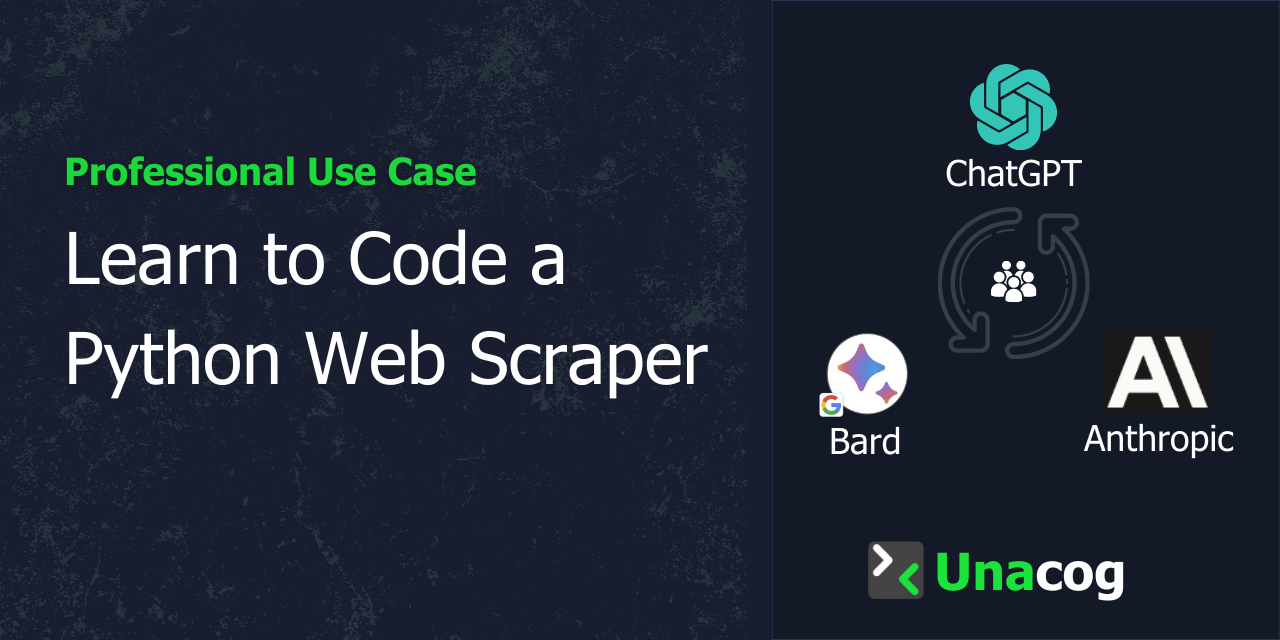
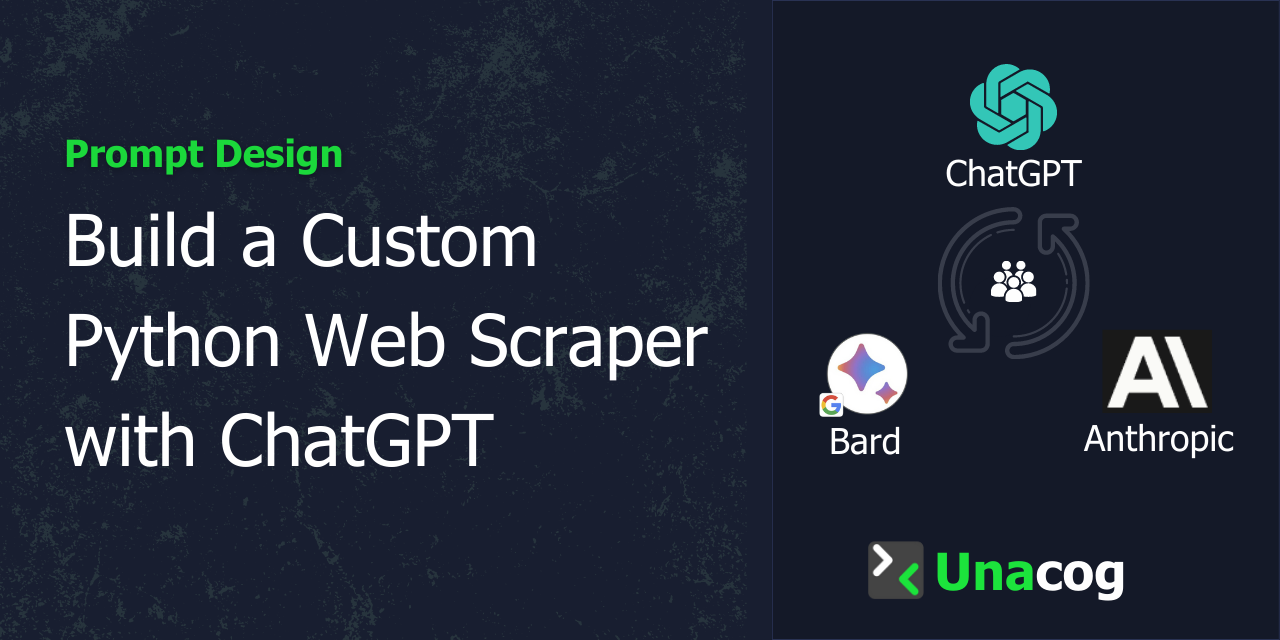
webscrape iteration

Changed region(s): [[0.0312, 0.2188, 0.5625, 0.75]]

diff --git a/public/content/webscrape/index.html b/public/content/webscrape/index.html
@@ -94,14 +94,21 @@
     <div class="container main_container">
         <div class="flex-lg-row flex_change_responsive">
             <div class="side_block">
-                <h1 class="header_recent_document">Using ChatGPT for a How To on Web Scrape</h1>
+                <h1 class="header_recent_document">Using ChatGPT Scrape the Web</h1>
                 <div class="coming-soon card" style="text-align:left;">
                     <p>
                         One of the most exciting aspects of AI technology is its potential to help us learn and
-                        accomplish tasks more efficiently. Today, I'd like to share a real-world application of how an
-                        AI language model, specifically ChatGPT, helped me accomplish a task that would traditionally
-                        require a fair amount of technical knowledge and effort: web scraping.
+                        accomplish tasks more efficiently. In this example, I wanted to share how I was
+                        able to generate a python script that will scrape into a csv file for any website you want with
+                        minor modifications. No coding skills required and template is at the bottom.
                     </p>
+                    <div class="text-center">
+                        <figure class="figure">
+                            <img class="figure-img img-fluid rounded shadow bg-dark-3"
+                                src="/images/webscrape_banner.png"
+                                alt="">
+                        </figure>
+                    </div>
                     <p>
                         Web scraping is a method used to extract large amounts of data from websites quickly. It can be
                         a bit tricky if you're not familiar with programming languages like Python. However, with a bit
@@ -171,7 +178,8 @@
                     </div>
                     <p>
                         I then
-                        provided the correct HTML elements that the script needed to select. With the corrected HTML elements, the AI model was able to provide a revised script.
+                        provided the correct HTML elements that the script needed to select. With the corrected HTML
+                        elements, the AI model was able to provide a revised script.
                     </p>
                     <div class="text-center">
                         <figure class="figure">
@@ -181,26 +189,28 @@
                         </figure>
                     </div>
                     <p>
-                        But I
-                        wanted to take it a step further: I needed to categorize the contacts based on their titles and
-                        export the data to a CSV file for easier manipulation.
+                        There's a couple ways to look at a website's html so you can copy the relevant elements. The
+                        most accessible way is to right click on the page and select "inspect" and then you can see the
+                        html elements. 
                     </p>
                     <div class="text-center">
                         <figure class="figure">
                             <img class="figure-img img-fluid rounded shadow bg-dark-3"
-                                src="https://firebasestorage.googleapis.com/v0/b/promptplusai.appspot.com/o/images%2Fwebscrape%2Fwebscrape7.png?alt=media&token=a962ab0a-77d2-4996-9edf-bf97e77f273b"
+                                src="https://firebasestorage.googleapis.com/v0/b/promptplusai.appspot.com/o/images%2Fwebscrape%2Fwebscrape44.png?alt=media&token=a962ab0a-77d2-4996-9edf-bf97e77f273b"
                                 alt="">
+                                <figcaption class="figure-caption">right click inspect to view html elements</figcaption>
                         </figure>
                     </div>
-                    <p>My message:<br><br>"I am using this list to create an email template. Detect if the title
-                        contains
-                        professor (variations like assistant or assiocaite are considered professors), if it does, give
-                        me another field called shortenTitle, and give them the title professor. if they have another
-                        title, we will refer to the original title field. I want to export this into a csv file."</p>
-                    <p>
-                        The AI model was able to adjust the
-                        script to include these additional requirements.
-                    </p>
+                    <p>Then use the selector tool to select the elements you want to scrape and copy the
+                        html element. It is best to only copy what the AI needs to select the data you want.</p>
+                    <div class="text-center">
+                        <figure class="figure">
+                            <img class="figure-img img-fluid rounded shadow bg-dark-3"
+                                src="https://firebasestorage.googleapis.com/v0/b/promptplusai.appspot.com/o/images%2Fwebscrape%2Fwebscrape444.png?alt=media&token=a962ab0a-77d2-4996-9edf-bf97e77f273b"
+                                alt="">
+                            <figcaption class="figure-caption">copy the desired HTML</figcaption>
+                        </figure>
+                    </div>
                 </div>
             </div>
         </div>
@@ -209,12 +219,28 @@
                 <h3 class="header_recent_document">Key Insights from AI-assisted Web Scraping</h3>
                 <div class="coming-soon card" style="text-align:left;">
                     <p>
-                        This experience demonstrated to me the power and flexibility of AI. The ability to ask questions
-                        and iteratively refine the solution enabled me to accomplish a task that might have been quite
-                        challenging on my own.
-                    </p>
+                        So then I wanted to take it a step further: I needed to categorize the contacts based on their titles and
+                         export the data to a CSV file for easier manipulation.
+                     </p>
+                     <div class="text-center">
+                         <figure class="figure">
+                             <img class="figure-img img-fluid rounded shadow bg-dark-3"
+                                 src="https://firebasestorage.googleapis.com/v0/b/promptplusai.appspot.com/o/images%2Fwebscrape%2Fwebscrape7.png?alt=media&token=a962ab0a-77d2-4996-9edf-bf97e77f273b"
+                                 alt="">
+                         </figure>
+                     </div>
+                     <p>My message:<br><br>"I am using this list to create an email template. Detect if the title
+                         contains
+                         professor (variations like assistant or assiocaite are considered professors), if it does, give
+                         me another field called shortenTitle, and give them the title professor. if they have another
+                         title, we will refer to the original title field. I want to export this into a csv file."</p>
+                     <p>
+                         The AI model was able to adjust the
+                         script to include these additional requirements.
+                     </p>
                     <p>
-                        The takeaways from this interaction are:
+                        This session highlights how AI can help us learn and adapt, even when we don't have all the
+                        information at hand. Here's a breakdown of what I learned:
                     </p>
                     <ul>
                         <li>
@@ -225,10 +251,12 @@
                             link and the correct HTML elements to look for were crucial in this case.
                         </li>
                         <li>
-                            <strong>Desired output:</strong> Determine the desired output format, such as CSV for compatibility with Excel or Google Sheets.
+                            <strong>Desired output:</strong> Determine the desired output format, such as CSV for
+                            compatibility with Excel or Google Sheets.
                         </li>
                         <li>
-                            <strong>Detailed requirements:</strong> Define any additional formatting rules, like shortening titles for specific purposes.
+                            <strong>Detailed requirements:</strong> Define any additional formatting rules, like
+                            shortening titles for specific purposes.
                         </li>
                     </ul>
                 </div>
@@ -240,7 +268,8 @@
                 <div class="coming-soon card" style="text-align:left;">
                     <p>
                         AI can be a powerful tool for learning and accomplishing tasks more efficiently.
-                        It's not just about automating tasks, but also about enhancing our learning process.  In fact I used AI to help me write this annotated prompt log to share my findings with you all.
+                        It's not just about automating tasks, but also about enhancing our learning process. In fact I
+                        used AI to help me write this annotated prompt log to share my findings with you all.
                     </p>
                     <div class="text-center">
                         <figure class="figure">
@@ -268,10 +297,6 @@
                         expecting a response back from the AI. The result? A ready-to-use template that requires only
                         the specific website and HTML elements you want to scrape.
                     </p>
-                    <p>
-                        If you want to leverage this resource, you will need to login and click below to clone the
-                        template. Once you have the template, simply enter the URL and HTML elements you want to scrape.
-                    </p>
                     <div class="text-center">
                         <figure class="figure">
                             <img class="figure-img img-fluid rounded shadow bg-dark-3"
@@ -280,8 +305,12 @@
                         </figure>
                     </div>
                     <p>
+                        If you want to leverage this resource, you will need to login and click below to clone the
+                        template. Once you have the template, simply enter the URL and HTML elements you want to scrape.
+                    </p>
+                    <p>
                         As a real-time collaboration platform, you can invite colleagues
-                        or anyone else you need to work with on the project. 
+                        or anyone else you need to work with on the project.
                     </p>
                 </div>
             </div>
